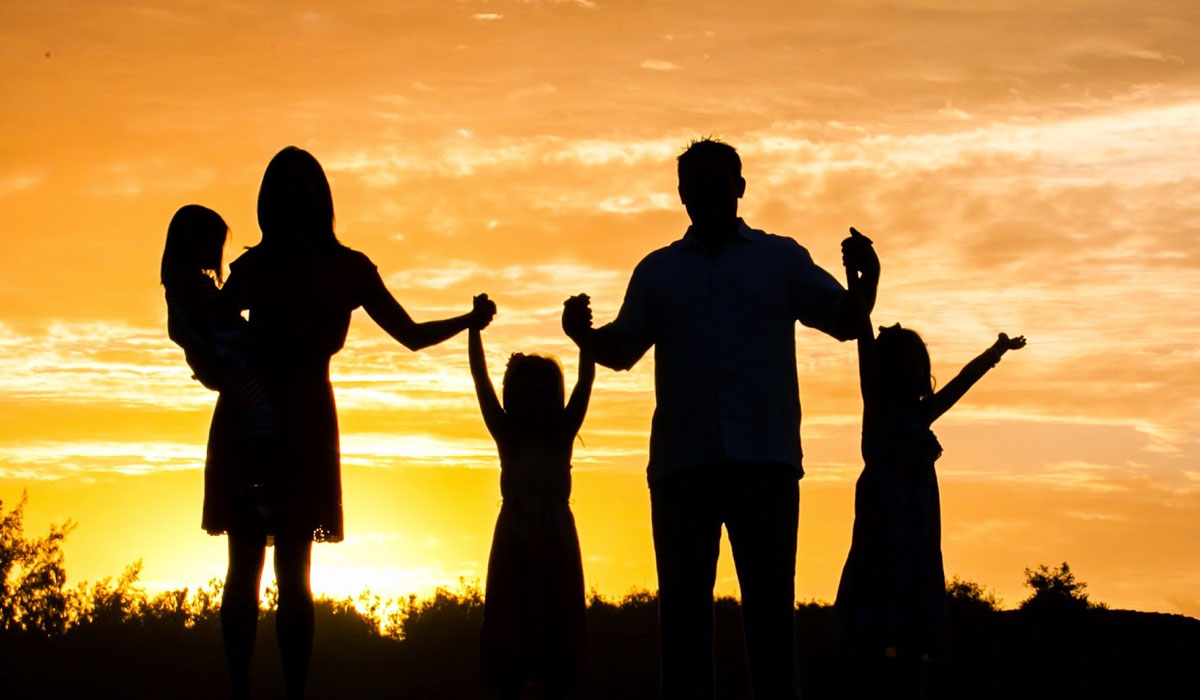
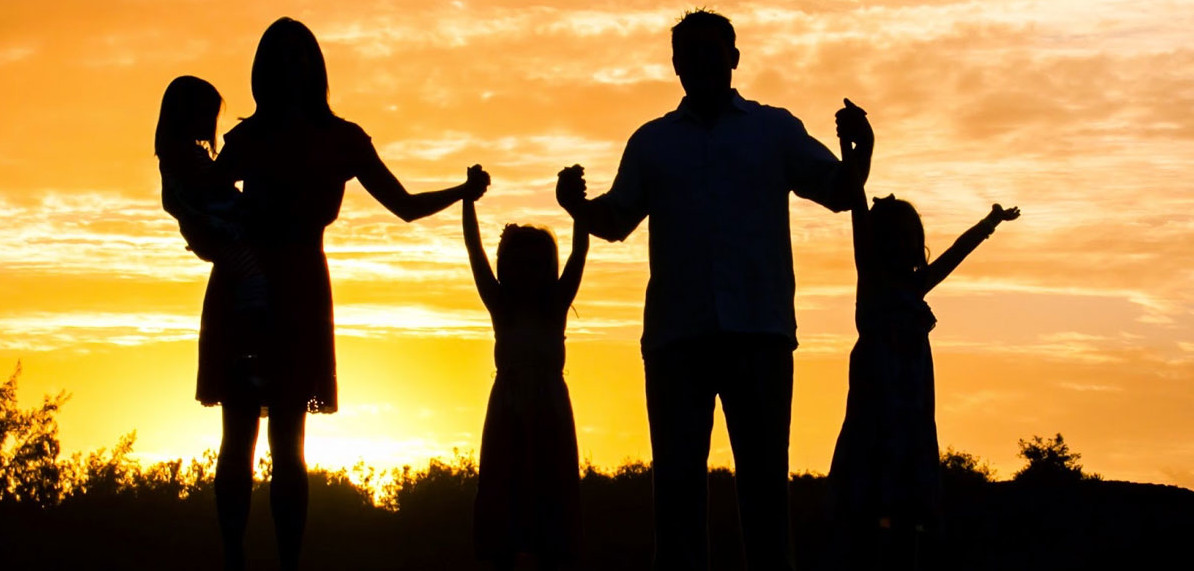
Carousel componetizado

diff --git a/impar/src/components/Carousel/index.jsx b/impar/src/components/Carousel/index.jsx
@@ -1,22 +1,17 @@
-import Carousel from 'flat-carousel';
-import './styles.css'
+import Carousel from "flat-carousel";
+import { CarouselImg } from "./styles";
+import familiaFeliz from "../../assets/familia-feliz.jpg";
+import familiaFeliz2 from "../../assets/familia-feliz2.jpg";
+import familiaFeliz3 from "../../assets/familia-feliz3.jpg";
 
-const images = [
-    { src: 'https://reactjs.org/logo-og.png' },
-    { src: 'https://reactjs.org/logo-og.png' }
-
-];
+const images = [{ src: familiaFeliz }, { src: familiaFeliz2 }, { src: familiaFeliz3 }];
 
 const CarouselContainer = () => (
-    <Carousel>
-        {images.map((image, index) => (
-            <div
-                key={index}
-                className="demo-item"
-                style={{ backgroundImage: 'url(' + image.src + ')' }}
-            />
-        ))}
-    </Carousel>
+  <Carousel style="height: 30vh">
+    {images.map((image, index) => (
+      <CarouselImg src={image.src} key={index}/>
+    ))}
+  </Carousel>
 );
 
-export default CarouselContainer
+export default CarouselContainer;

diff --git a/impar/src/index.css b/impar/src/index.css
@@ -1,13 +1,14 @@
 body {
-  margin: 0;
-  font-family: -apple-system, BlinkMacSystemFont, 'Segoe UI', 'Roboto', 'Oxygen',
-    'Ubuntu', 'Cantarell', 'Fira Sans', 'Droid Sans', 'Helvetica Neue',
-    sans-serif;
-  -webkit-font-smoothing: antialiased;
-  -moz-osx-font-smoothing: grayscale;
+    margin: 0;
+    font-family: -apple-system, BlinkMacSystemFont, 'Segoe UI', 'Roboto', 'Oxygen', 'Ubuntu', 'Cantarell', 'Fira Sans', 'Droid Sans', 'Helvetica Neue', sans-serif;
+    -webkit-font-smoothing: antialiased;
+    -moz-osx-font-smoothing: grayscale;
 }
 
 code {
-  font-family: source-code-pro, Menlo, Monaco, Consolas, 'Courier New',
-    monospace;
+    font-family: source-code-pro, Menlo, Monaco, Consolas, 'Courier New', monospace;
+}
+
+.carousel__main {
+    height: 40vh;
 }

diff --git a/impar/src/components/Carousel/styles.js b/impar/src/components/Carousel/styles.js
@@ -1,0 +1,8 @@
+import styled from "styled-components";
+
+export const CarouselImg = styled.img `
+    background-image: ${props => `url(${props.src})`};
+    height: 100vh;
+    margin-top: -5vh;
+    width: 100vw;
+`;

diff --git a/impar/src/components/Card/styles.js b/impar/src/components/Card/styles.js
@@ -1,7 +1,7 @@
 import styled from "styled-components";
 
 export const CardContainer = styled.div `
-  height: 7vh;
+  height: 100vh;
   padding-left: 2vw;
   width: 100vw;
 `;
